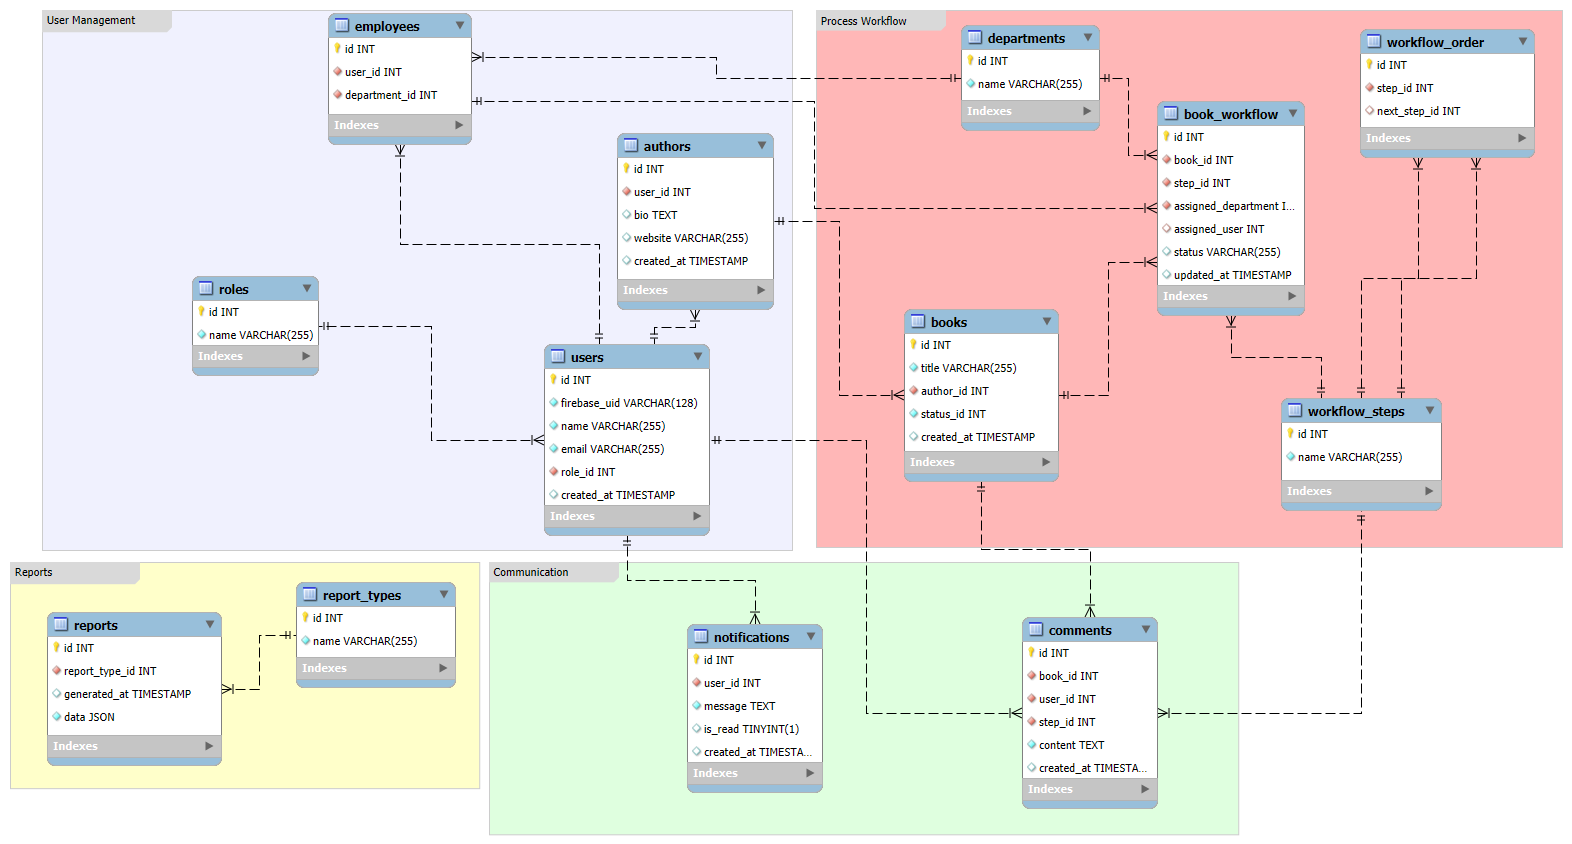
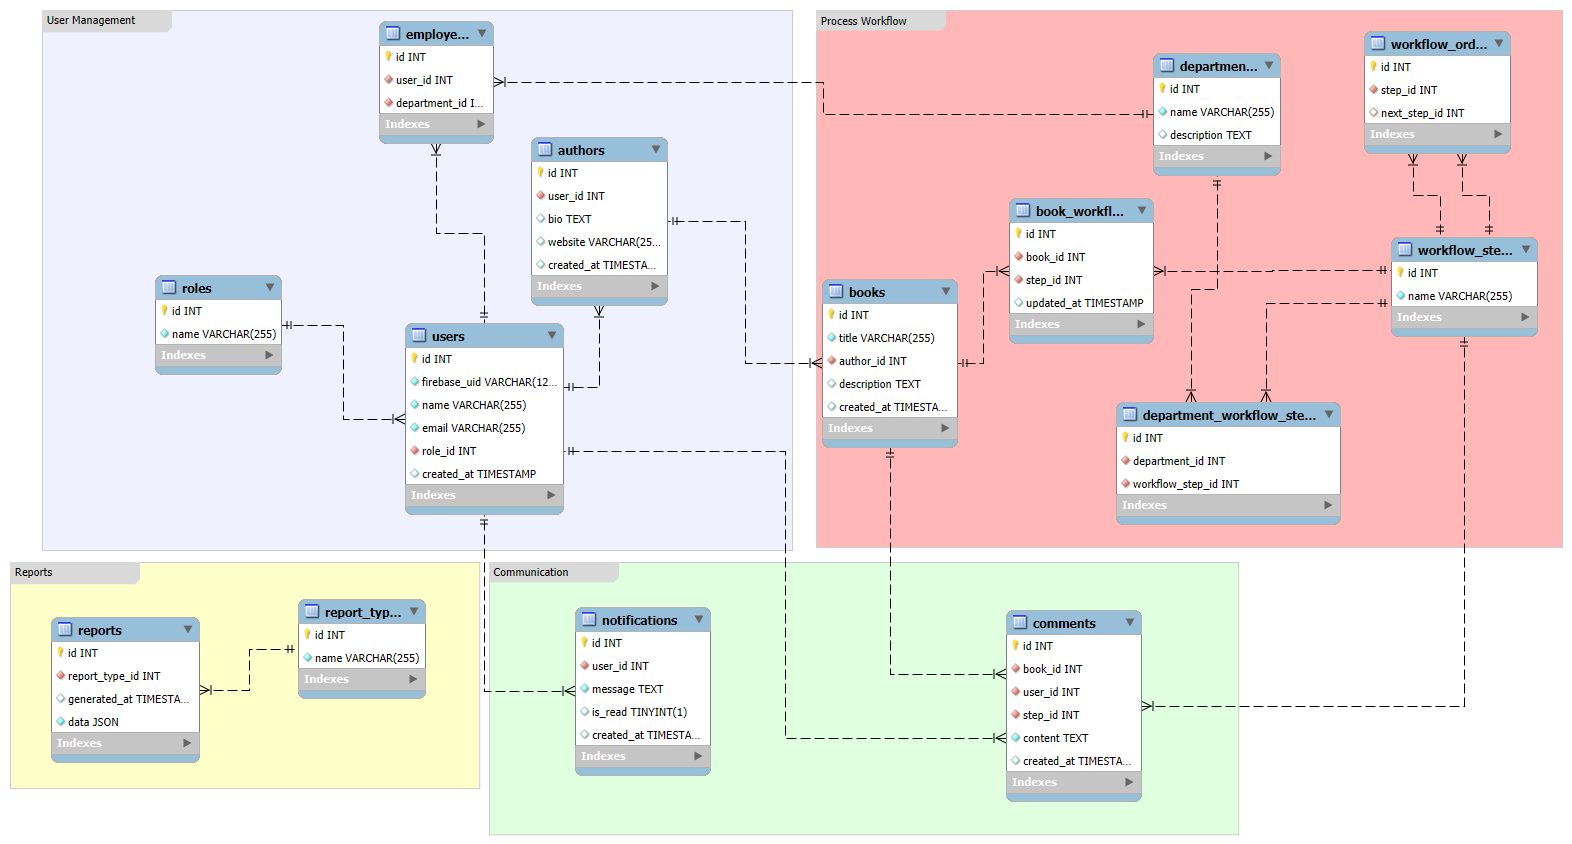
db: normalize department and workflow_step relationship

diff --git a/backend/routes/manuscripts.js b/backend/routes/manuscripts.js
@@ -41,17 +41,30 @@ router.get("/", async (req, res) => {
     if (currentUserRoleId === 1) {
       const [manuscripts] = await dbPool.query(
         `SELECT
-                b.id AS id, 
-                b.title AS title,
-                b.description AS description,
-                u.name AS author, 
-                bw.step_id AS current_step, 
-                bw.assigned_department AS assigned_department
-            FROM books b
-            INNER JOIN authors a ON a.id = b.author_id
-            INNER JOIN users u ON u.id = a.user_id
-            INNER JOIN book_workflow bw ON bw.book_id = b.id`
+            b.id AS id, 
+            b.title AS title,
+            b.description AS description,
+            u.name AS author, 
+            bw.step_id AS current_step, 
+            COALESCE(GROUP_CONCAT(DISTINCT d.id ORDER BY d.id SEPARATOR ', '), '') AS assigned_departments
+          FROM books b
+          INNER JOIN authors a ON a.id = b.author_id
+          INNER JOIN users u ON u.id = a.user_id
+          INNER JOIN book_workflow bw ON bw.book_id = b.id
+          LEFT JOIN department_workflow_steps dws ON dws.workflow_step_id = bw.step_id
+          LEFT JOIN departments d ON d.id = dws.department_id
+          GROUP BY b.id, b.title, b.description, u.name, bw.step_id`
       );
+      // If no manuscripts are found
+      if (manuscripts.length === 0) {
+        return res.status(204).end();
+      }
+      // Prepare the manuscripts for the response
+      manuscripts.forEach((manuscript) => {
+        manuscript.assigned_departments = manuscript.assigned_departments
+          ? manuscript.assigned_departments.split(",").map(Number)
+          : [];
+      });
       // TODO: Remove Debugging
       console.log(manuscripts);
       return res.status(200).json(manuscripts);
@@ -62,25 +75,37 @@ router.get("/", async (req, res) => {
     // Employees can see manuscripts assigned to their department
     const [manuscripts] = await dbPool.query(
       `SELECT 
-            b.id AS id, 
-            b.title AS title,
-            b.description AS description,
-            u.name AS author, 
-            bw.step_id AS current_step, 
-            bw.assigned_department AS assigned_department
+          b.id AS id, 
+          b.title AS title,
+          b.description AS description,
+          u.name AS author, 
+          bw.step_id AS current_step, 
+          COALESCE(GROUP_CONCAT(DISTINCT d.id ORDER BY d.id SEPARATOR ', '), '') AS assigned_departments
         FROM books b
         INNER JOIN authors a ON a.id = b.author_id
         INNER JOIN users u ON u.id = a.user_id
         INNER JOIN book_workflow bw ON bw.book_id = b.id
-        LEFT JOIN employees e ON e.department_id = bw.assigned_department
+        LEFT JOIN department_workflow_steps dws ON dws.workflow_step_id = bw.step_id
+        LEFT JOIN departments d ON d.id = dws.department_id
+        LEFT JOIN employees e ON e.department_id = d.id
         LEFT JOIN users ue ON ue.id = e.user_id
         WHERE 
-            (u.id = ? AND ? = 3) 
+          (u.id = ? AND ? = 3)
         OR 
-            (ue.id = ? AND ? = 2)`,
+          (ue.id = ? AND ? = 2)
+        GROUP BY b.id, b.title, b.description, u.name, bw.step_id`,
       [currentUserId, currentUserRoleId, currentUserId, currentUserRoleId]
     );
 
+    if (manuscripts.length === 0) {
+      return res.status(204).end();
+    }
+    // Prepare the manuscripts for the response
+    manuscripts.forEach((manuscript) => {
+      manuscript.assigned_departments = manuscript.assigned_departments
+        ? manuscript.assigned_departments.split(",").map(Number)
+        : [];
+    });
     // TODO: Remove Debugging
     console.log(manuscripts);
     return res.status(200).json(manuscripts);

diff --git a/backend/middlewares/validateManuscriptAccess.js b/backend/middlewares/validateManuscriptAccess.js
@@ -66,13 +66,15 @@ const authorizeManuscriptAccess = async (manuscriptId, userId, userRoleId) => {
       `SELECT 
             b.id AS id, 
             u.id AS author_id, 
-            bw.step_id AS current_step, 
-            bw.assigned_department AS assigned_department
+            bw.step_id AS current_step,
+            COALESCE(GROUP_CONCAT(DISTINCT d.id ORDER BY d.id SEPARATOR ', '), '') AS assigned_departments
         FROM books b
         INNER JOIN authors a ON a.id = b.author_id
         INNER JOIN users u ON u.id = a.user_id
         INNER JOIN book_workflow bw ON bw.book_id = b.id
-        LEFT JOIN employees e ON e.department_id = bw.assigned_department
+        LEFT JOIN department_workflow_steps dws ON dws.workflow_step_id = bw.step_id
+        LEFT JOIN departments d ON d.id = dws.department_id
+        LEFT JOIN employees e ON e.department_id = d.id
         LEFT JOIN users ue ON ue.id = e.user_id
         WHERE 
             b.id = ? 
@@ -82,12 +84,23 @@ const authorizeManuscriptAccess = async (manuscriptId, userId, userRoleId) => {
             OR 
                 (u.id = ? AND ? = 3) -- Author can access own manuscripts
             OR 
-                (ue.id = ? AND ? = 2) -- Department members can access assigned manuscripts
-            )`,
+                (ue.id = ? AND ? = 2) -- Department members can access manuscripts in their workflow step
+            )
+        GROUP BY b.id, u.id, bw.step_id`,
       [manuscriptId, userRoleId, userId, userRoleId, userId, userRoleId]
     );
 
-    return manuscripts.length > 0 ? manuscripts[0] : null;
+    if (manuscripts.length === 0) {
+      return null;
+    }
+
+    // Prepare the manuscript object
+    const manuscript = manuscripts[0];
+    // Prepare the assigned departments as an array of numbers
+    manuscript.assigned_departments = manuscript.assigned_departments
+      ? manuscript.assigned_departments.split(", ").map(Number)
+      : [];
+    return manuscripts;
   } catch (error) {
     console.error("Error validating user permission:", error);
     throw new Error("Database error");